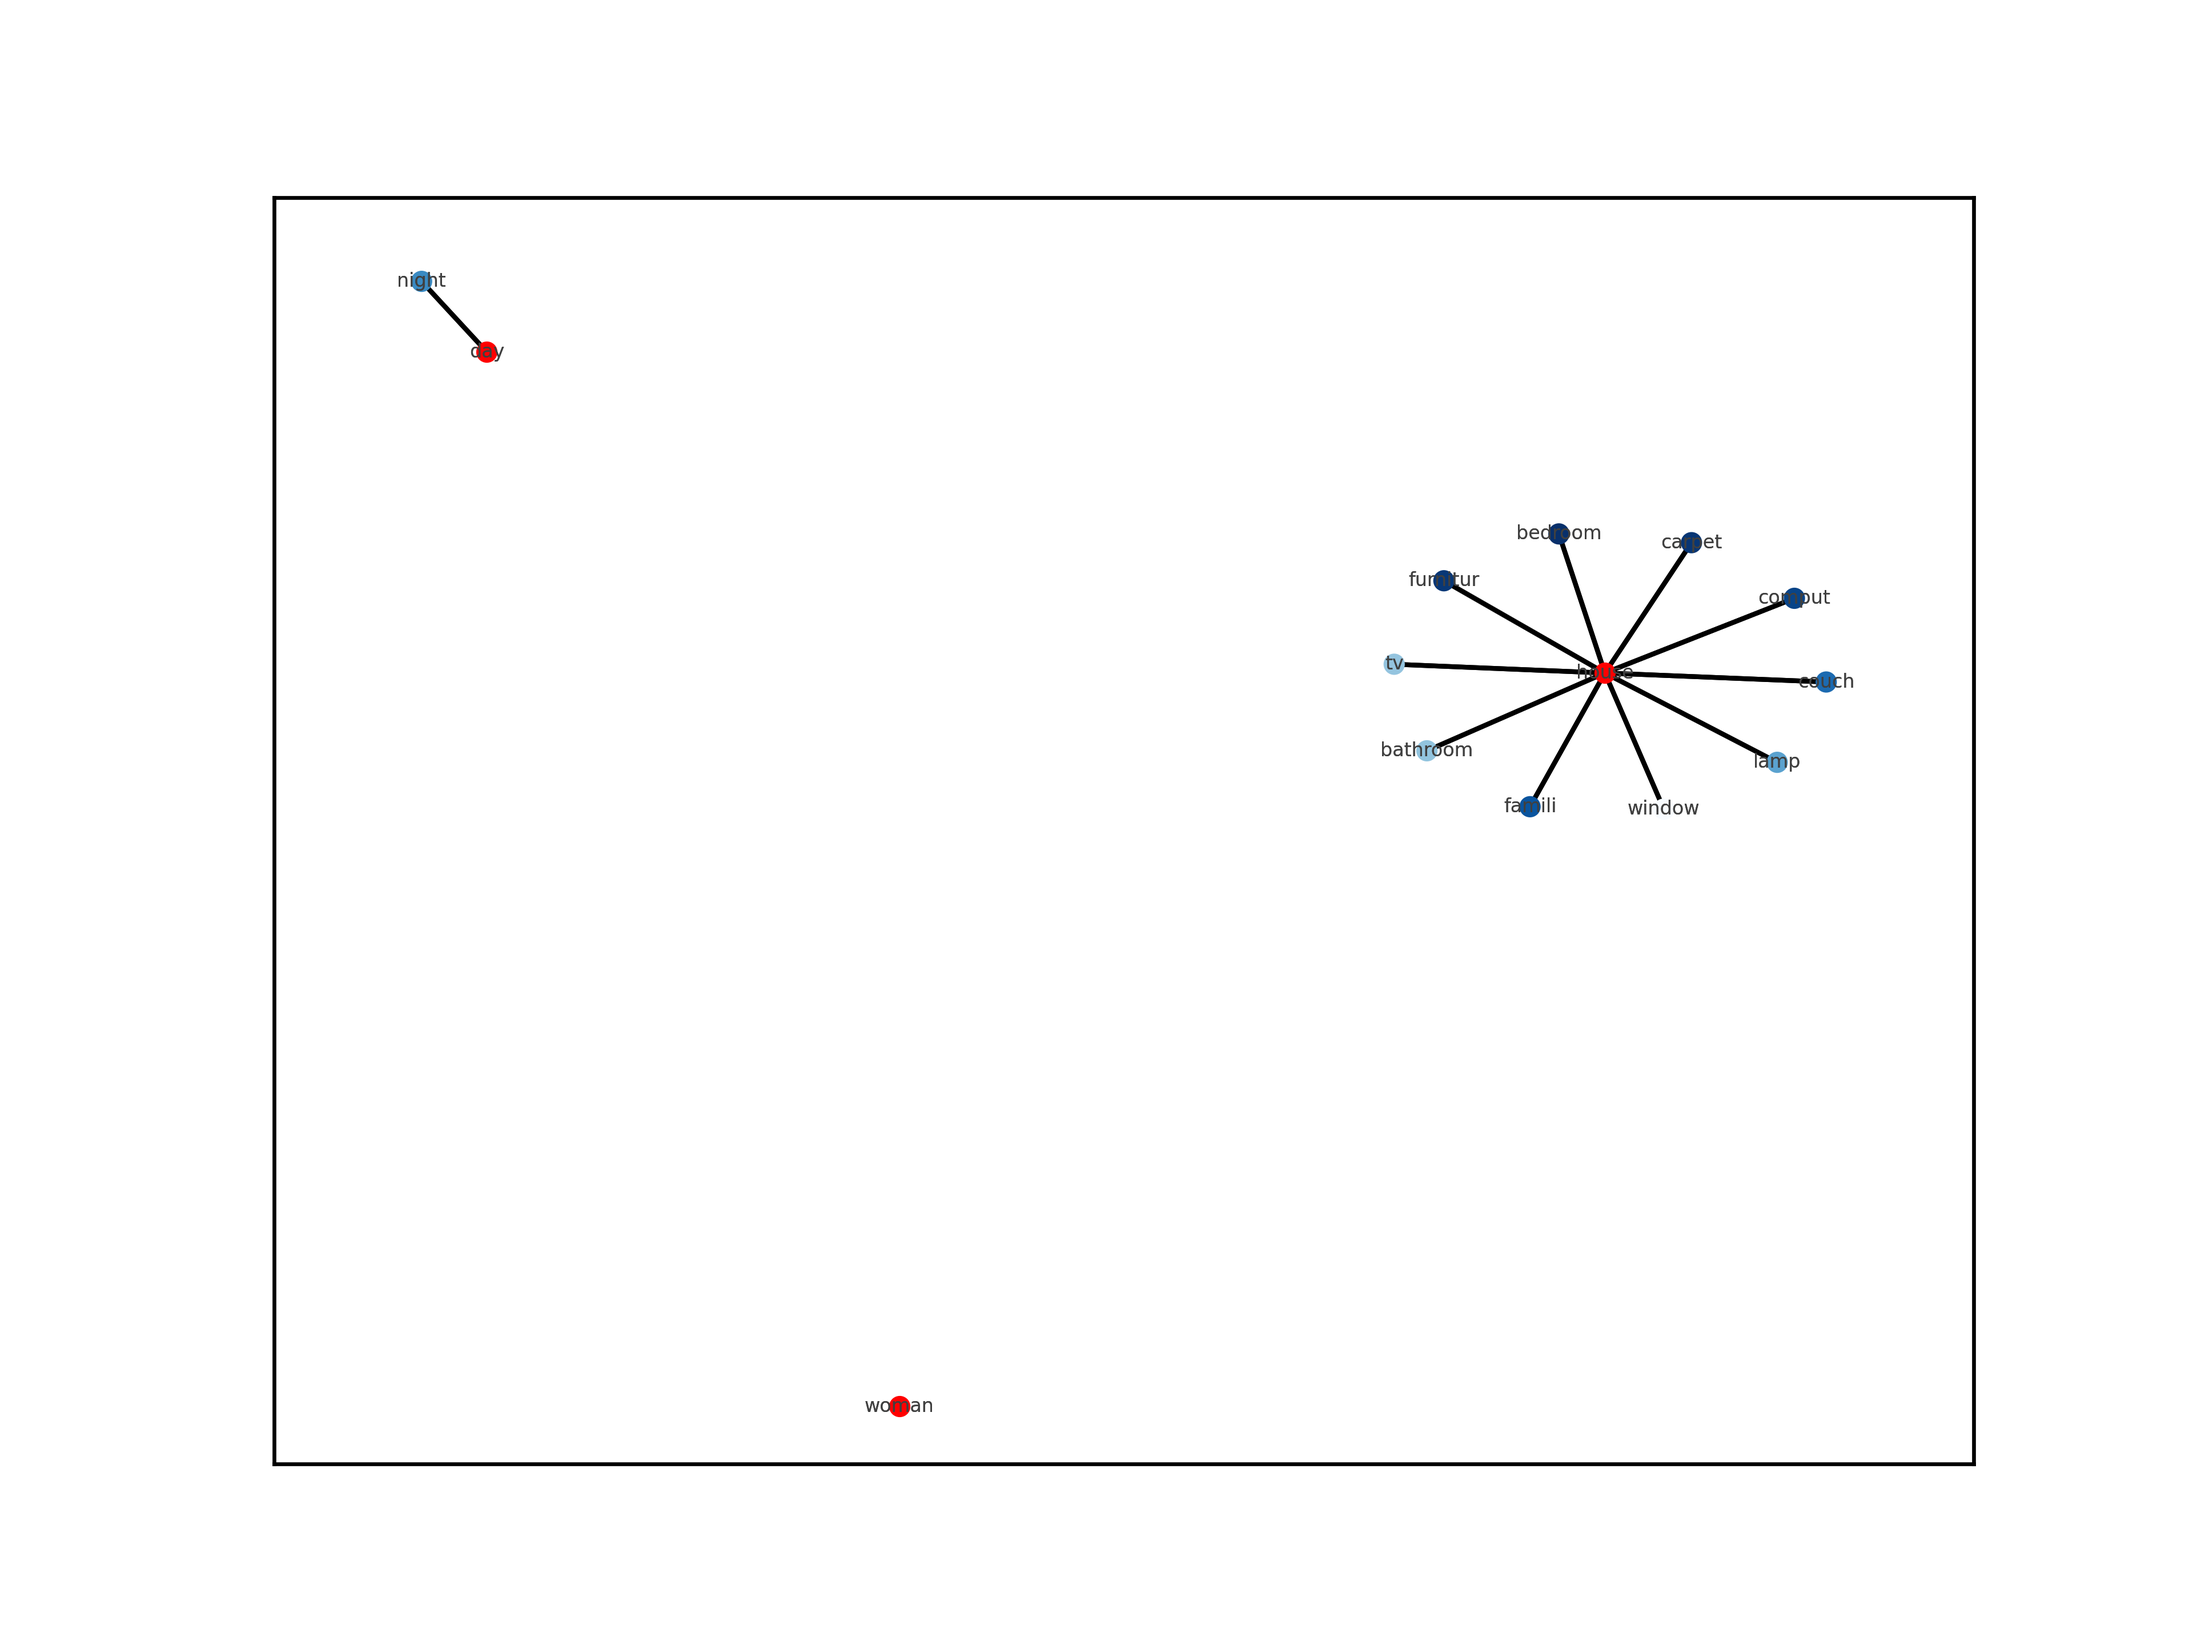
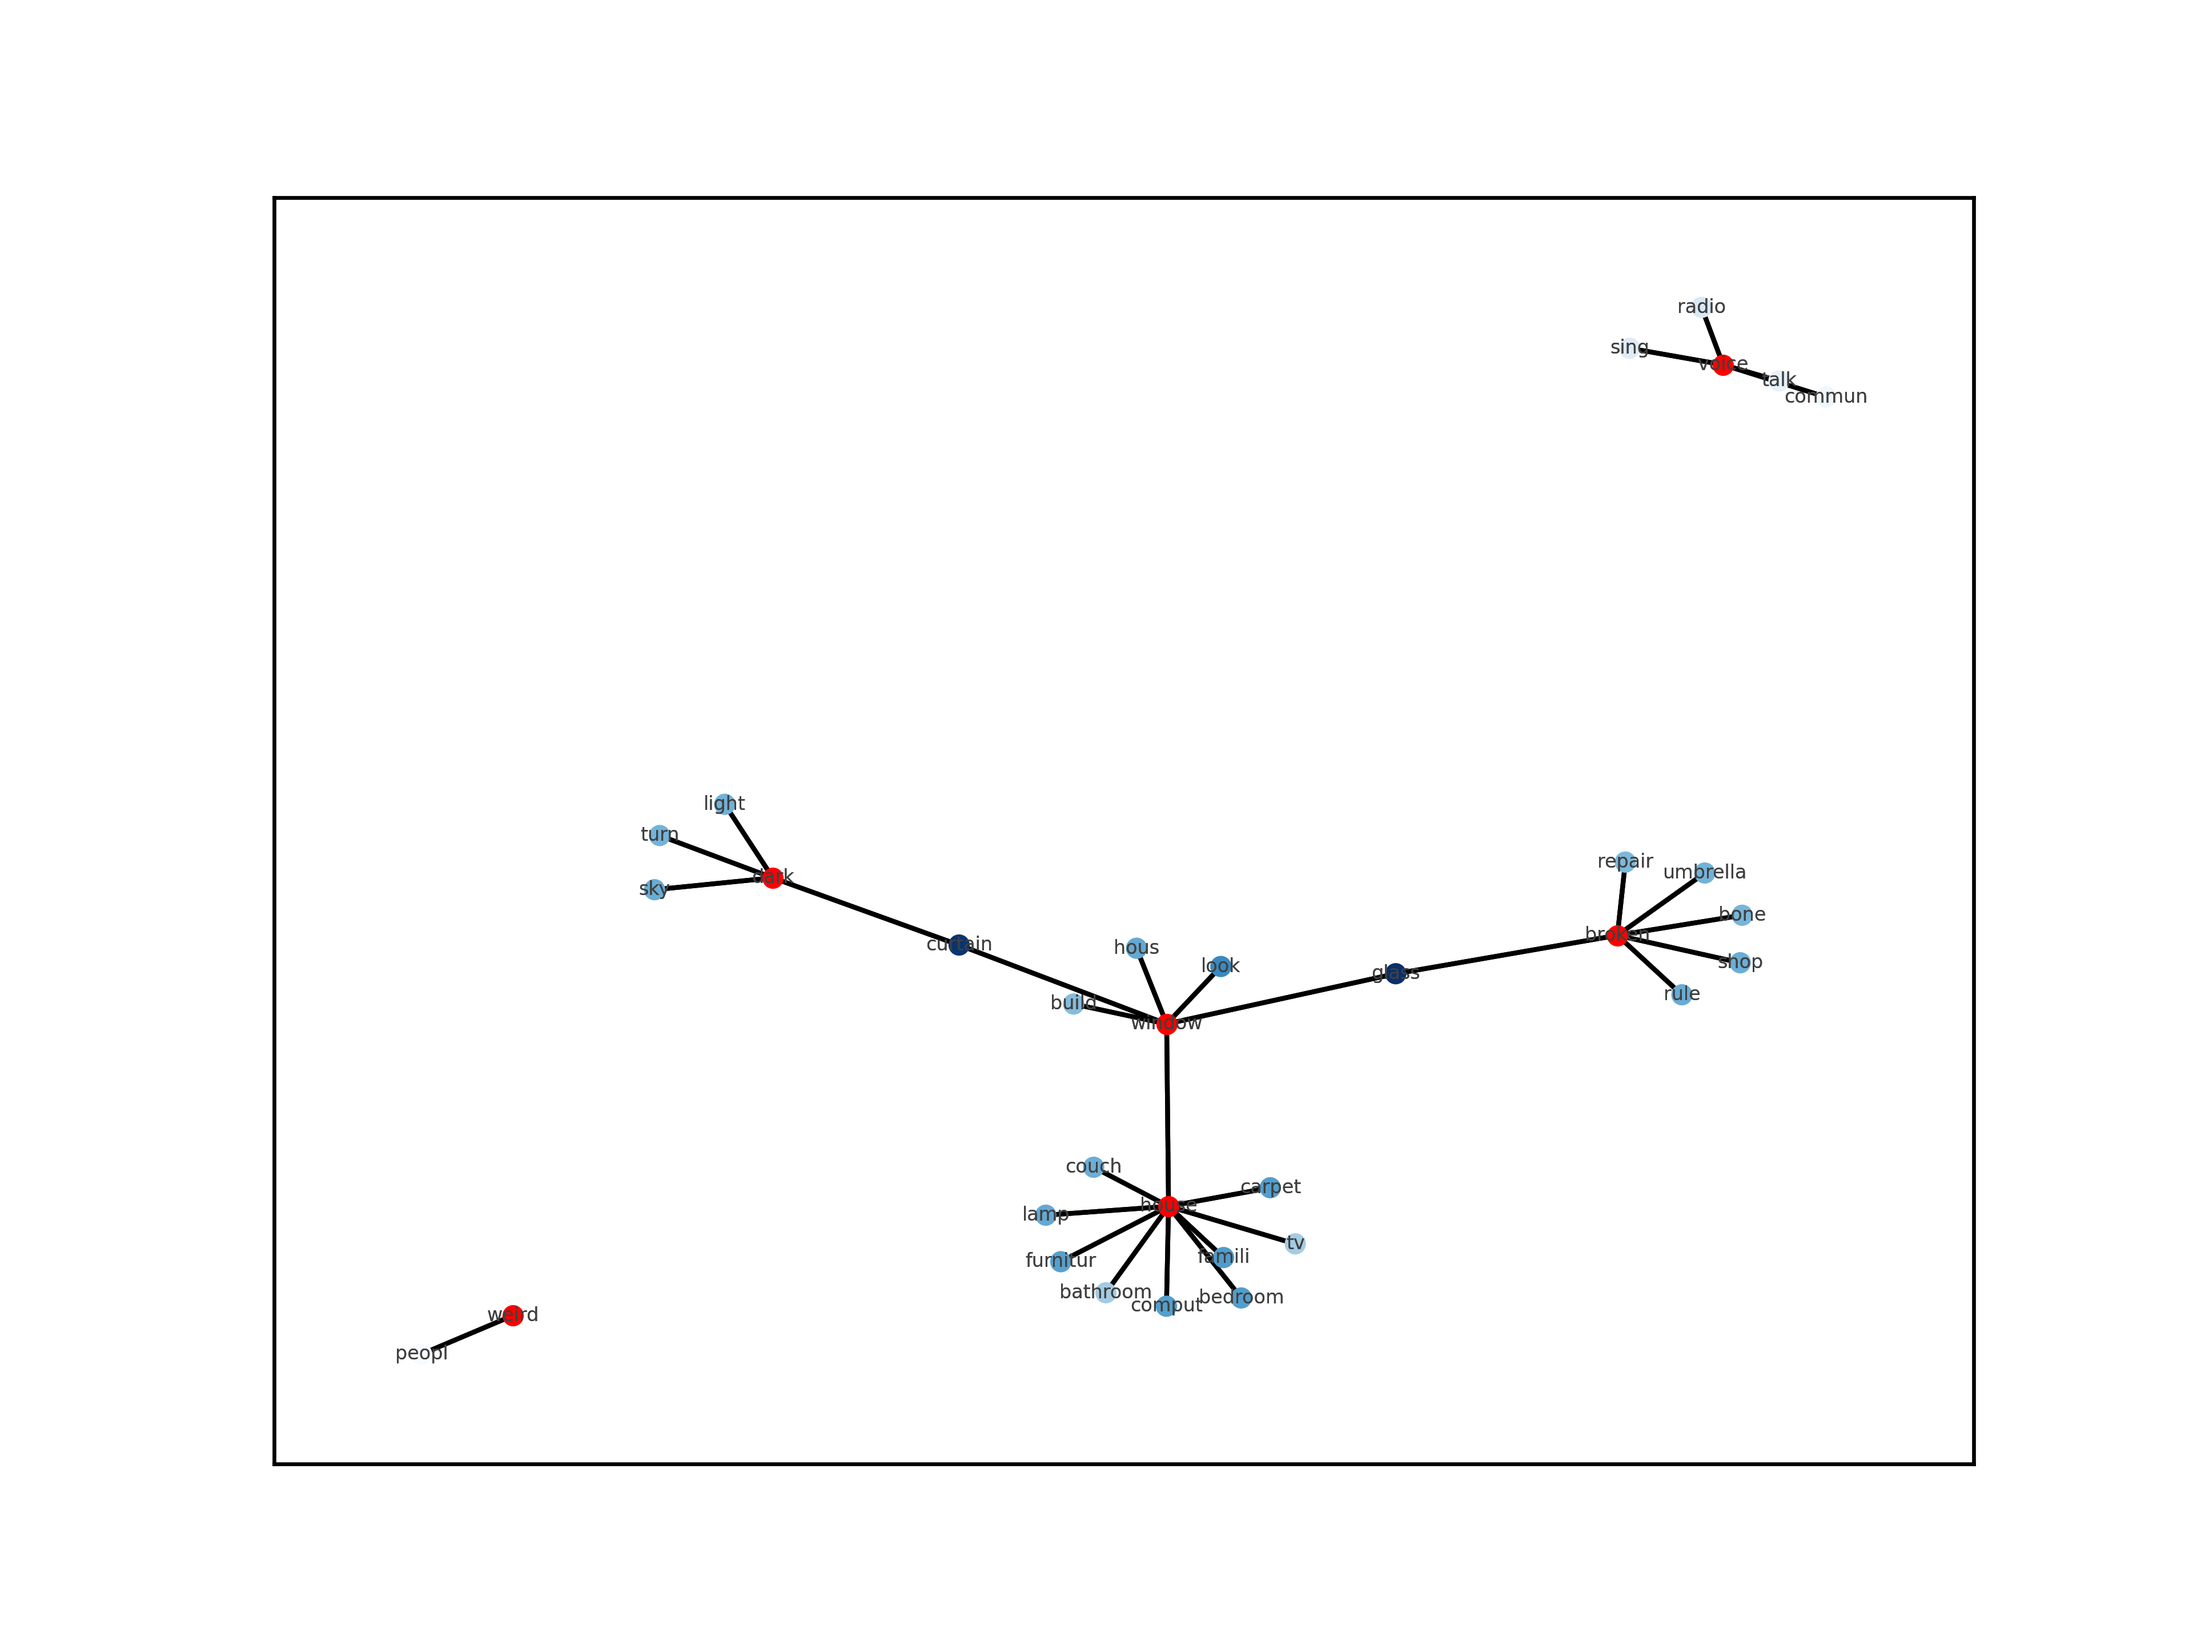
.

diff --git a/local_kg.py b/local_kg.py
@@ -17,18 +17,17 @@ def build_kg(kw_list):
     nlp = spacy.load("en_core_web_lg")
     ps = PorterStemmer()
 
+    # get hub words
     words = set()
-
     for kw in kw_list:
         doc = nlp(kw)
         for token in doc:
-            if token.pos_ == "NOUN" or token.pos_ == "VERB":
+            if token.pos_ == "NOUN" or token.pos_ == "VERB" or token.pos_ == "ADJ":
                 words.add(str((token)))
-    
     words = list(words)
 
     triples = []
-    stem_to_words = defaultdict(list)
+    stem_to_words = defaultdict(set)
     nei_to_hub = dict()
 
     for w in words:
@@ -36,11 +35,11 @@ def build_kg(kw_list):
 
         for t in w_triples:
             if w in t[0]:
-                doc = nlp(t[2])
+                doc = nlp(t[2]) # t[2] might be a phrase, thus it needs be disected
                 for token in doc:
                     if token.pos_ == "NOUN" or token.pos_ == "VERB":
                         stem = ps.stem(str(token))
-                        stem_to_words[stem].append(str(token))
+                        stem_to_words[stem].add(str(token))
                         triples.append((w, t[1], stem))
                         nei_to_hub[stem] = w
             else:
@@ -48,19 +47,20 @@ def build_kg(kw_list):
                 for token in doc:
                     if token.pos_ == "NOUN" or token.pos_ == "VERB":
                         stem = ps.stem(str(token))
-                        stem_to_words[stem].append(str(token))
+                        stem_to_words[stem].add(str(token))
                         triples.append((stem, t[1], w))
                         nei_to_hub[stem] = w
 
     if not os.path.isdir('local_kgs/'):
         os.mkdir('local_kgs/')
-    
     path = 'local_kgs/'+'kg.txt'
 
     with open(path, 'w', encoding='utf-8') as f:
         # f.write(', '.join(kw_list)+'\n')
         for t in triples:
             f.write(str(t[0])+'\t'+str(t[1])+'\t'+str(t[2])+'\n')
+
+    stem_to_words = defaultdict(list, ((k, list(v)) for k, v in stem_to_words.items()))
 
     return path, words, stem_to_words, nei_to_hub
 
@@ -130,14 +130,18 @@ def calculate_score(logger, path, hubs, stem_to_words, nei_to_hub, alpha_):
 
     keys = list(final_score.keys())
     values = [final_score[k] for k in keys]
-    norm_values = [(float(i)-min(values))/(max(values)-min(values)) for i in values]
+    minumun = 0.2
+    norm_values = [(1-minumun-0.1)*((float(i)-min(values))/(max(values)-min(values)))+minumun for i in values]
 
+    original_score = dict(zip(keys + hubs, values + ['nan']*len(hubs)))
     final_score = dict(zip(keys + hubs, norm_values + [1.0]*len(hubs)))
 
+    df_original_score = pd.DataFrame({'original_score': values}, index=keys)
     df_final_score = pd.DataFrame({'final_score': norm_values}, index=keys)
 
+    sim_matrix = pd.concat([sim_matrix, df_original_score], axis=1)
     sim_matrix = pd.concat([sim_matrix, df_final_score], axis=1)
-    logger.info(sim_matrix.head(6))
+    logger.info(sim_matrix)
 
     # drawing network and save into file
     color_map = []

diff --git a/prompt.py b/prompt.py
@@ -34,7 +34,8 @@ expand_rel = {"motivatedbygoal": "motivated by goal",
               "mannerof": "manner of",
               "madeof": "made of",
               "hascontext": "has context",
-              "hasfirstsubevent": "has first subevent"
+              "hasfirstsubevent": "has first subevent",
+              "receivesaction": "receives action"
               }
 
 def conceptNetTripleRetrival(concept):
@@ -79,17 +80,23 @@ def similariry(w1, w2):
     cosine = np.dot(A,B)/(norm(A)*norm(B))
     return cosine
 
-def promptGeneration(logger, kwlist, prompt_model):
-    first_kw = kwlist[0]
+def promptGeneration(logger, input_str, prompt_model):
+    if str(input_str).strip() == "" or str(input_str) == None:
+        logger.info("Using default input: \"a dark house, broken window, weird voice\"")
+        input_str = "a dark house, broken window, weird voice"
+
+    kw_list = str(input_str).strip().split(',')
+    first_kw = kw_list[0]
 
     nlp = spacy.load("en_core_web_lg")
     doc = nlp(first_kw)
     
-    words = []
+    words = set()
     for token in doc:
         if token.pos_ == "NOUN" or token.pos_ == "VERB" or token.pos_ == "ADJ":
-            words.append(str((token)))
+            words.add(str((token)))
 
+    words = list(words)
     related_words = dict()
     for w in words:
         triples = conceptNetTripleRetrival(w)
@@ -109,4 +116,4 @@ def promptGeneration(logger, kwlist, prompt_model):
     logger.info(f"prompt words: {prompt_words}")
     prompt_sentence = gpt3_k2s(logger, prompt_words, prompt_model)
 
-    return prompt_sentence
+    return kw_list, prompt_sentence

diff --git a/gpt3_api.py b/gpt3_api.py
@@ -34,7 +34,7 @@ def gpt3_k2s(logger, kwlist, prompt_model):
     text = response['choices'][0]['text'].replace('\n', '').replace(' .', '.').strip()
     return text
 
-def gpt3_generation(logger, prompt, scores, stem_to_words, beta_, freq_pen, story_model):
+def gpt3_generation(logger, prompt, scores, stem_to_words, beta_, freq_pen, story_model, hub_word_bias):
     tokenizer = GPT2TokenizerFast.from_pretrained("gpt2")
     
     real_key_value = dict()
@@ -44,7 +44,13 @@ def gpt3_generation(logger, prompt, scores, stem_to_words, beta_, freq_pen, stor
             real_key_value[rw] = v
     
     keys = list(real_key_value.keys())
-    values = [real_key_value[k]*beta_ for k in keys]
+    # values = [real_key_value[k]*beta_ for k in keys]
+    values = []
+    for k in keys:
+        if real_key_value[k] >=1.0:
+            values.append(hub_word_bias)  # extremely large bias for hub words
+        else:
+            values.append(real_key_value[k]*beta_)
 
     _keys = [' '+k for k in keys]
 
@@ -75,7 +81,7 @@ def gpt3_generation(logger, prompt, scores, stem_to_words, beta_, freq_pen, stor
                                         )
     
     text = response['choices'][0]['text'].replace('\n', '').replace(' .', '.').strip()
-    if text.startswith(prompt):
+    if prompt in text:
         return text
     else:
         return prompt+' '+text

diff --git a/utils.py b/utils.py
@@ -14,8 +14,11 @@ def set_beta(beta, beta_):
 def set_freq_pen(freq_penalty, freq_pen):
     freq_pen[0] = freq_penalty
 
+def set_hub_word_bias(hub_word_bias, hub_bias):
+    hub_bias[0] = hub_word_bias
+
 def set_input_bar():
-    inp = Text(placeholder='a big house, sunny day, cute dogs', description='Keywords:', layout = Layout(width='18cm'))
+    inp = Text(placeholder='a dark house, broken window, weird voice', description='Keywords:', layout = Layout(width='18cm'))
     button = Button(description='Run!',
                     layout = {'width':'3cm'},
                     tooltip='Click me')
@@ -155,11 +158,12 @@ def set_models(prompt_model, story_model):
     story_button.observe(partial(change_story_model, story_model))
     return prompt_button, story_button
 
-def show_parameters(logger, alpha_, beta_, freq_pen, prompt_model, story_model):
+def show_parameters(logger, alpha_, beta_, freq_pen, prompt_model, story_model, hub_word_bias):
     logger.info('-----Parameters-----')
     logger.info(f"alpha = {alpha_}")
     logger.info(f"beta = {beta_}")
     logger.info(f"freq_penalty = {freq_pen}")
+    logger.info(f"hub_word_bias = {hub_word_bias}")
     logger.info(f"prompt_model = \"{prompt_model}\"")
     logger.info(f"story_model = \"{story_model}\"")
     logger.info("")

diff --git a/config.py b/config.py
@@ -1,9 +1,10 @@
 
 def init_configures():
     alpha_ = [0.3]
-    beta_ = [0.8]
-    freq_pen = [0.5]
+    beta_ = [5.5]
+    freq_pen = [1.1]
+    hub_word_bias = [10.0]
     prompt_model = ['text-curie-001']
     story_model = ['text-curie-001']
 
-    return alpha_, beta_, freq_pen, prompt_model, story_model
+    return alpha_, beta_, freq_pen, hub_word_bias, prompt_model, story_model
